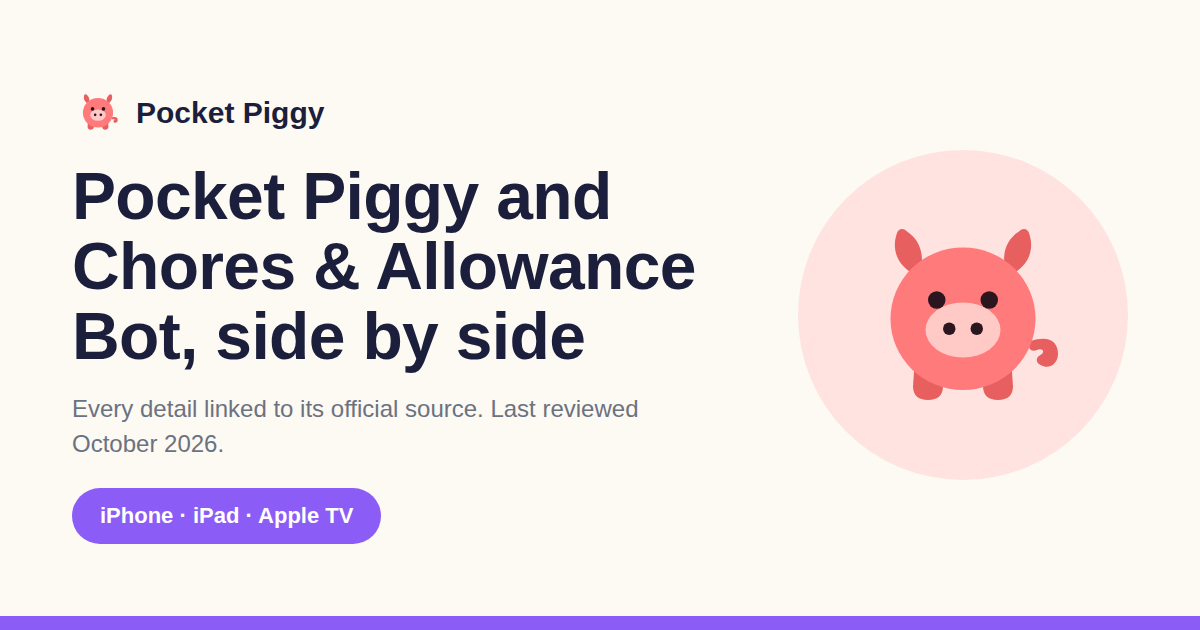
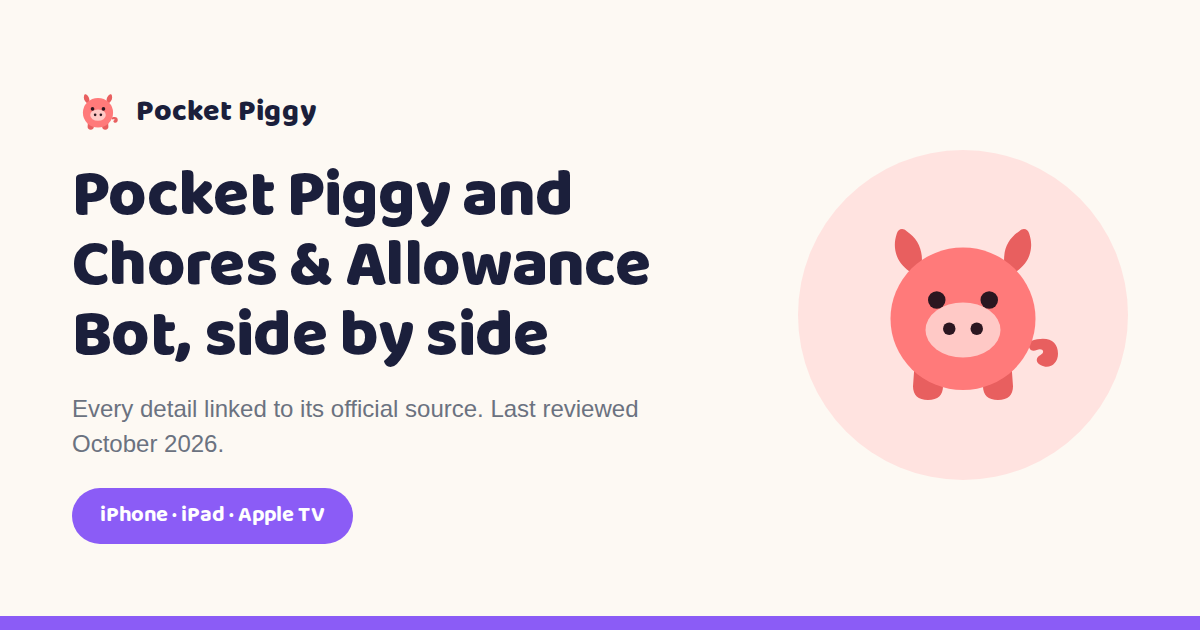
Update Chores & Allowance Bot annual price and re-render its OG card
The US App Store listing now shows Premium Annual at $24.99 (was $39.99
on Sept 25-26). Update the roundup, compare-chore-apps and the README
fact sheet with the new price and 2-year cost, noting the recheck date.
Re-render the OG card with Baloo 2 so it matches the other cards.

Claude-Session: https://claude.ai/code/session_01AV6XkBLZ3PNsaGMg349W8i

Changed region(s): [[0.0617, 0.2714, 0.5858, 0.6032], [0.0925, 0.754, 0.3392, 0.8746], [0.1233, 0.1508, 0.2775, 0.2111]]

diff --git a/best-chore-and-allowance-apps/index.html b/best-chore-and-allowance-apps/index.html
@@ -78,7 +78,7 @@
       <tbody>
       <tr><th scope="row" class="pp-col">Pocket Piggy</th><td class="pp-col">Chore chart and allowance tracker</td><td class="pp-col">None, no subscription</td><td class="pp-col">Yes, $9.99 (free for one kid)</td><td class="pp-col">No, it is a ledger</td></tr>
       <tr><th scope="row">Chorsee</th><td>Chore tracker with allowance or points</td><td>$39.99/year<sup class="cite"><a href="#source-1" aria-label="Source 1">1</a></sup></td><td>Yes, from $119.99<sup class="cite"><a href="#source-1" aria-label="Source 1">1</a></sup></td><td class="not-listed">Not listed<sup class="cite"><a href="#source-1" aria-label="Source 1">1</a></sup></td></tr>
-      <tr><th scope="row">Chores &amp; Allowance Bot</th><td>Chore and allowance tracker</td><td>$39.99/year<sup class="cite"><a href="#source-2" aria-label="Source 2">2</a></sup></td><td class="not-listed">Not listed<sup class="cite"><a href="#source-2" aria-label="Source 2">2</a></sup></td><td class="not-listed">Not listed<sup class="cite"><a href="#source-2" aria-label="Source 2">2</a></sup></td></tr>
+      <tr><th scope="row">Chores &amp; Allowance Bot</th><td>Chore and allowance tracker</td><td>$24.99/year<sup class="cite"><a href="#source-2" aria-label="Source 2">2</a></sup></td><td class="not-listed">Not listed<sup class="cite"><a href="#source-2" aria-label="Source 2">2</a></sup></td><td class="not-listed">Not listed<sup class="cite"><a href="#source-2" aria-label="Source 2">2</a></sup></td></tr>
       <tr><th scope="row">Homey</th><td>Chores and allowance</td><td>$59.99/year<sup class="cite"><a href="#source-3" aria-label="Source 3">3</a></sup></td><td class="not-listed">Not listed<sup class="cite"><a href="#source-3" aria-label="Source 3">3</a></sup></td><td>Bank transfer, US only<sup class="cite"><a href="#source-3" aria-label="Source 3">3</a></sup></td></tr>
       <tr><th scope="row">S'moresUp</th><td>Chores, rewards and family planner</td><td>$79.99/year<sup class="cite"><a href="#source-4" aria-label="Source 4">4</a></sup></td><td class="not-listed">Not listed<sup class="cite"><a href="#source-4" aria-label="Source 4">4</a></sup></td><td class="not-listed">Not listed<sup class="cite"><a href="#source-4" aria-label="Source 4">4</a></sup></td></tr>
       <tr><th scope="row">Greenlight</th><td>Debit card app for kids</td><td>$71.88/year ($5.99/month)<sup class="cite"><a href="#source-5" aria-label="Source 5">5</a></sup></td><td class="not-listed">Not listed<sup class="cite"><a href="#source-5" aria-label="Source 5">5</a></sup></td><td>Yes, debit cards<sup class="cite"><a href="#source-5" aria-label="Source 5">5</a></sup></td></tr>
@@ -86,7 +86,7 @@
       </tbody>
     </table>
   </div>
-  <p class="chart-note">Prices as of September 26, 2026, before tax. App Store prices come from each app's US App Store listing; Greenlight and BusyKid prices come from their own websites. Greenlight and BusyKid include real cards, so their prices are not directly comparable with a tracker. 'Not listed' means we could not find it in the official source; the app may still offer it. Prices and features change, so check each source before you buy.</p>
+  <p class="chart-note">Prices as of September 26, 2026, before tax, except Chores &amp; Allowance Bot, rechecked October 3, 2026. App Store prices come from each app's US App Store listing; Greenlight and BusyKid prices come from their own websites. Greenlight and BusyKid include real cards, so their prices are not directly comparable with a tracker. 'Not listed' means we could not find it in the official source; the app may still offer it. Prices and features change, so check each source before you buy.</p>
 </div>
 
 <article class="wrap narrow prose">
@@ -125,7 +125,7 @@
   <li>A photo can be required for each completed chore. <span class="src">(as of September 26, 2026; source: <a href="https://apps.apple.com/us/app/chores-allowance-bot/id629797415" rel="nofollow noopener" target="_blank">Chores &amp; Allowance Bot, US App Store listing</a>)</span></li>
   <li>A percentage of allowance and chore payments can be moved automatically into separate accounts and goals. <span class="src">(as of September 26, 2026; source: <a href="https://apps.apple.com/us/app/chores-allowance-bot/id629797415" rel="nofollow noopener" target="_blank">Chores &amp; Allowance Bot, US App Store listing</a>)</span></li>
   <li>Languages listed: English, French, German, Hindi, Italian, Japanese, Korean, Portuguese, Russian, Simplified Chinese and Spanish. <span class="src">(as of September 26, 2026; source: <a href="https://apps.apple.com/us/app/chores-allowance-bot/id629797415" rel="nofollow noopener" target="_blank">Chores &amp; Allowance Bot, US App Store listing</a>)</span></li>
-  <li>Free to download, with in-app purchases Premium Monthly $9.99, Premium Semiannual $17.99 and Premium Annual $39.99. <span class="src">(as of September 26, 2026; source: <a href="https://apps.apple.com/us/app/chores-allowance-bot/id629797415" rel="nofollow noopener" target="_blank">Chores &amp; Allowance Bot, US App Store listing</a>)</span></li>
+  <li>Free to download, with in-app purchases Premium Monthly $9.99, Premium Semiannual $17.99 and Premium Annual $24.99. <span class="src">(as of October 3, 2026; source: <a href="https://apps.apple.com/us/app/chores-allowance-bot/id629797415" rel="nofollow noopener" target="_blank">Chores &amp; Allowance Bot, US App Store listing</a>)</span></li>
   <li>Compatibility lists iPhone, iPad, iPod touch, Mac and Apple Vision. <span class="src">(as of September 26, 2026; source: <a href="https://apps.apple.com/us/app/chores-allowance-bot/id629797415" rel="nofollow noopener" target="_blank">Chores &amp; Allowance Bot, US App Store listing</a>)</span></li>
 </ul>
 <p><strong>May suit you if</strong> your family uses one of those languages, or you want chores to rotate every day. <a href="/chores-allowance-bot-alternative/">See how Pocket Piggy and Chores &amp; Allowance Bot compare</a>.</p>

diff --git a/compare-chore-apps/index.html b/compare-chore-apps/index.html
@@ -59,9 +59,9 @@
       <thead><tr><th scope="col"><span class="visually-hidden">Feature</span></th><th scope="col" class="pp-col">Pocket Piggy</th><th scope="col">Chorsee</th><th scope="col">Chores &amp; Allowance Bot</th><th scope="col">Homey</th><th scope="col">S'moresUp</th></tr></thead>
       <tbody>
       <tr><th scope="row">Pricing model</th><td class="pp-col">Free, or $9.99 once</td><td>Free + subscription or lifetime<sup class="cite"><a href="#source-1" aria-label="Source 1">1</a></sup></td><td>Free + subscription<sup class="cite"><a href="#source-2" aria-label="Source 2">2</a></sup></td><td>Free tier + subscription<sup class="cite"><a href="#source-3" aria-label="Source 3">3</a>,<a href="#source-4" aria-label="Source 4">4</a></sup></td><td>Free tier + subscription<sup class="cite"><a href="#source-5" aria-label="Source 5">5</a>,<a href="#source-6" aria-label="Source 6">6</a></sup></td></tr>
-      <tr><th scope="row">Lowest yearly price</th><td class="pp-col">None, no subscription</td><td>$39.99/year<sup class="cite"><a href="#source-1" aria-label="Source 1">1</a></sup></td><td>$39.99/year<sup class="cite"><a href="#source-2" aria-label="Source 2">2</a></sup></td><td>$59.99/year<sup class="cite"><a href="#source-3" aria-label="Source 3">3</a></sup></td><td>$79.99/year<sup class="cite"><a href="#source-5" aria-label="Source 5">5</a></sup></td></tr>
+      <tr><th scope="row">Lowest yearly price</th><td class="pp-col">None, no subscription</td><td>$39.99/year<sup class="cite"><a href="#source-1" aria-label="Source 1">1</a></sup></td><td>$24.99/year<sup class="cite"><a href="#source-2" aria-label="Source 2">2</a></sup></td><td>$59.99/year<sup class="cite"><a href="#source-3" aria-label="Source 3">3</a></sup></td><td>$79.99/year<sup class="cite"><a href="#source-5" aria-label="Source 5">5</a></sup></td></tr>
       <tr><th scope="row">Pay-once option</th><td class="pp-col">Yes, $9.99</td><td>Yes, from $119.99<sup class="cite"><a href="#source-1" aria-label="Source 1">1</a></sup></td><td class="not-listed">Not listed<sup class="cite"><a href="#source-2" aria-label="Source 2">2</a></sup></td><td class="not-listed">Not listed<sup class="cite"><a href="#source-3" aria-label="Source 3">3</a></sup></td><td class="not-listed">Not listed<sup class="cite"><a href="#source-5" aria-label="Source 5">5</a></sup></td></tr>
-      <tr><th scope="row">Estimated 2-year cost (lowest listed plan)</th><td class="pp-col">$0 for one kid, $9.99 for the family</td><td>$79.98 (yearly plan)<sup class="cite"><a href="#source-1" aria-label="Source 1">1</a></sup></td><td>$79.98 (annual plan)<sup class="cite"><a href="#source-2" aria-label="Source 2">2</a></sup></td><td>$119.98 (yearly plan)<sup class="cite"><a href="#source-3" aria-label="Source 3">3</a></sup></td><td>$159.98 (yearly plan)<sup class="cite"><a href="#source-5" aria-label="Source 5">5</a></sup></td></tr>
+      <tr><th scope="row">Estimated 2-year cost (lowest listed plan)</th><td class="pp-col">$0 for one kid, $9.99 for the family</td><td>$79.98 (yearly plan)<sup class="cite"><a href="#source-1" aria-label="Source 1">1</a></sup></td><td>$49.98 (annual plan)<sup class="cite"><a href="#source-2" aria-label="Source 2">2</a></sup></td><td>$119.98 (yearly plan)<sup class="cite"><a href="#source-3" aria-label="Source 3">3</a></sup></td><td>$159.98 (yearly plan)<sup class="cite"><a href="#source-5" aria-label="Source 5">5</a></sup></td></tr>
       <tr><th scope="row">Apple TV app</th><td class="pp-col">Yes</td><td class="not-listed">Not listed<sup class="cite"><a href="#source-1" aria-label="Source 1">1</a></sup></td><td class="not-listed">Not listed<sup class="cite"><a href="#source-2" aria-label="Source 2">2</a></sup></td><td class="not-listed">Not listed<sup class="cite"><a href="#source-3" aria-label="Source 3">3</a></sup></td><td class="not-listed">Not listed<sup class="cite"><a href="#source-5" aria-label="Source 5">5</a></sup></td></tr>
       <tr><th scope="row">iPad app</th><td class="pp-col">Yes</td><td>Yes<sup class="cite"><a href="#source-1" aria-label="Source 1">1</a></sup></td><td>Yes<sup class="cite"><a href="#source-2" aria-label="Source 2">2</a></sup></td><td>Yes<sup class="cite"><a href="#source-3" aria-label="Source 3">3</a></sup></td><td class="not-listed">Not listed<sup class="cite"><a href="#source-5" aria-label="Source 5">5</a></sup></td></tr>
       <tr><th scope="row">Chore rotation between kids</th><td class="pp-col">Yes</td><td>Yes<sup class="cite"><a href="#source-1" aria-label="Source 1">1</a></sup></td><td>Yes<sup class="cite"><a href="#source-2" aria-label="Source 2">2</a></sup></td><td class="not-listed">Not listed<sup class="cite"><a href="#source-3" aria-label="Source 3">3</a></sup></td><td>Yes (Premium)<sup class="cite"><a href="#source-6" aria-label="Source 6">6</a></sup></td></tr>
@@ -72,7 +72,7 @@
       </tbody>
     </table>
   </div>
-  <p class="chart-note">Prices from each app's US App Store listing as of September 2026, before tax. 'Not listed' means the feature or option does not appear in that app's App Store listing or compatibility information; the app may still offer it. Prices and features change, so check each listing before you buy.</p>
+  <p class="chart-note">Prices from each app's US App Store listing as of September 2026, before tax. Chores &amp; Allowance Bot's price was rechecked on October 3, 2026. 'Not listed' means the feature or option does not appear in that app's App Store listing or compatibility information; the app may still offer it. Prices and features change, so check each listing before you buy.</p>
 </div>
 <article class="wrap narrow prose">
 <h2>What makes Pocket Piggy different</h2>

diff --git a/README.md b/README.md
@@ -173,11 +173,11 @@ Chart: Pricing model "Free, or $9.99 once" · Lowest yearly price "None, no subs
 - Chart: Pricing model "Free + subscription or lifetime" · Lowest yearly price "$39.99/year" · Pay-once option "Yes, from $119.99" · 2-year cost "$79.98 (yearly plan)" · Apple TV "Not listed" · iPad "Yes" · Rotation "Yes" · Up-for-grabs "Yes" · Read-aloud "Not listed" · Kids need an account "Not listed" · Home screen widgets "Yes" (C3).
 
 **Chores & Allowance Bot.** Source: https://apps.apple.com/us/app/chores-allowance-bot/id629797415
-- A1. Free download with in-app purchases: Premium Monthly $9.99, Premium Semiannual $17.99, Premium Annual $39.99.
+- A1. Free download with in-app purchases: Premium Monthly $9.99, Premium Semiannual $17.99, Premium Annual $24.99 (annual was $39.99 on Sept 25; rechecked Oct 3, 2026).
 - A2. Compatibility lists iPhone, iPad, iPod touch, Mac, and Apple Vision.
 - A3. Listing describes rotating chores, up-for-grabs chores, read-aloud for pre-readers, automatic percentage transfers into accounts and goals, and support for English plus 10 more languages.
 - A4. 4.5 stars, 11K ratings. (Do not show on the site.)
-- Chart: Pricing model "Free + subscription" · Lowest yearly price "$39.99/year" · Pay-once option "Not listed" · 2-year cost "$79.98 (annual plan)" · Apple TV "Not listed" · iPad "Yes" · Rotation "Yes" · Up-for-grabs "Yes" · Read-aloud "Yes". · Kids need an account "Not listed" · Home screen widgets "Not listed".
+- Chart: Pricing model "Free + subscription" · Lowest yearly price "$24.99/year" · Pay-once option "Not listed" · 2-year cost "$49.98 (annual plan)" · Apple TV "Not listed" · iPad "Yes" · Rotation "Yes" · Up-for-grabs "Yes" · Read-aloud "Yes". · Kids need an account "Not listed" · Home screen widgets "Not listed".
 
 **Homey.** Sources: https://apps.apple.com/us/app/homey-chores-and-allowance/id1033286805 and https://www.homeyapp.net/homey-faq/
 - H1. Free download with in-app purchases including Homey Monthly $6.99 and Homey Yearly $59.99.
